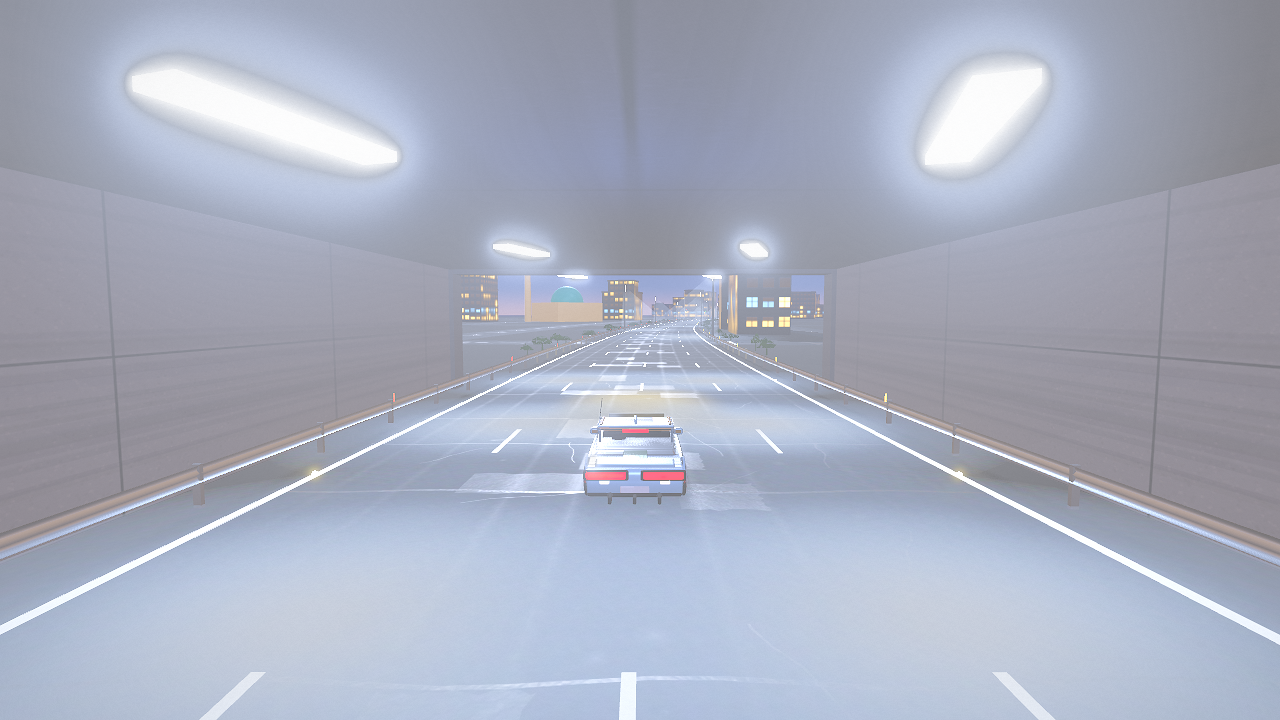
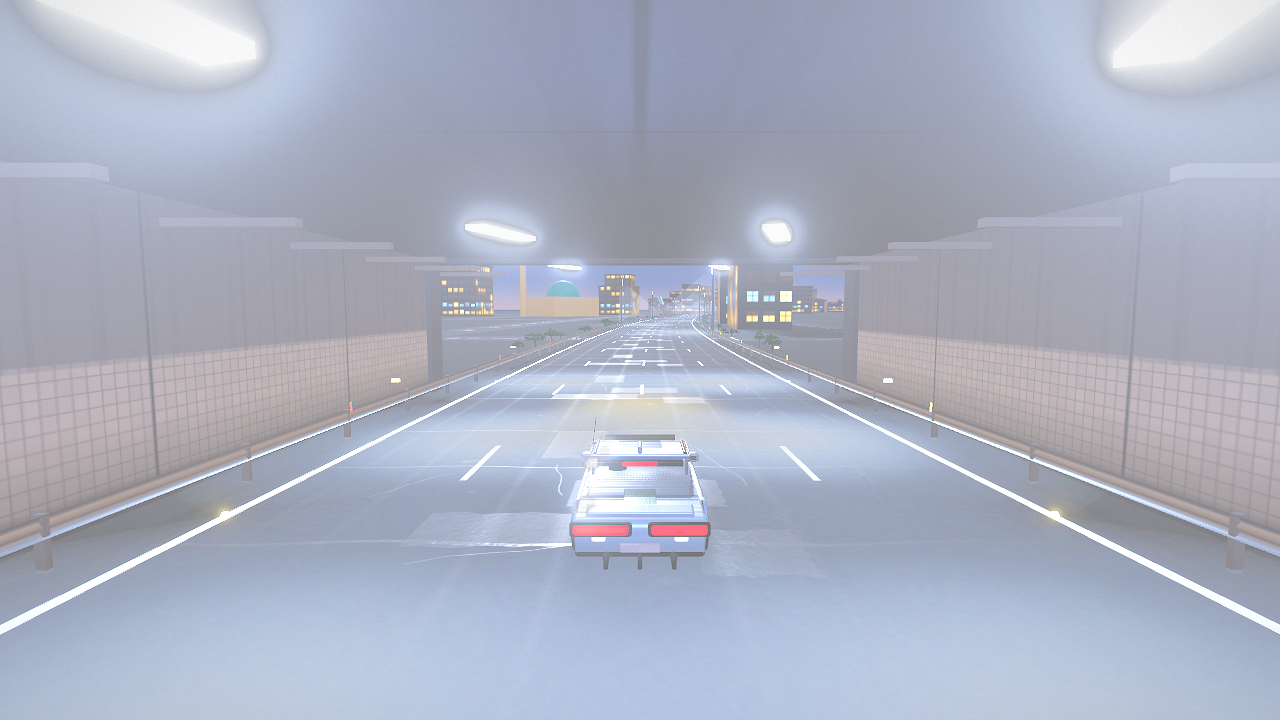
Give the underpass a plinth, a tiled dado and a service run
The tunnel's walls were the same flat grey from the road to the soffit —
five and a half metres of one colour with nothing on it to say which end
was the ground. It read as a corridor rather than as a road.

WHAT A ROAD TUNNEL ACTUALLY HAS, bottom to top

  A plinth, dark and wet, the bit that gets hit by spray and never
  dries. This is most of what was missing: without it the wall had no
  bottom.

  A tiled dado to about 2.5 m, in pale ceramic with its own grout.
  Tunnels are tiled to head height for a reason this game should care
  about — it is there to bounce headlights back onto the carriageway —
  so it is the lightest surface in here.

  Dirty concrete above that, sooted where the exhaust collects against
  the soffit, because nothing washes it.

  An expansion joint once per seven-metre bay. A tunnel is cast in bays,
  and at speed that seam is the thing telling you how fast you are going
  when everything else is a smooth grey wall.

The texture is authored SIDEWAYS, and it has to be: buildWall lays its
UVs out as u = height and v = distance, so on that canvas X is height and
Y is length, and every band above is a vertical stripe standing for a
horizontal course. That is why it is its own function rather than a few
more strokes on concreteTexture. The soffit keeps the plain cast
concrete — a ceiling has no courses on it.

AND TWO THINGS ON TOP OF IT

  The cable duct, at high level, the one horizontal line running unbroken
[…]

diff --git a/src/game/world.ts b/src/game/world.ts
@@ -805,6 +805,125 @@ function concreteTexture(): THREE.CanvasTexture {
   return tex;
 }
 
+/**
+ * The underpass wall — and it is authored SIDEWAYS on purpose.
+ *
+ * buildWall lays its UVs out as u = height (0 at the road, 1 at the
+ * soffit) and v = distance along the tunnel over 14 m. So on this canvas
+ * the X axis is HEIGHT and the Y axis is LENGTH, which is the opposite
+ * of how anybody draws a wall and the reason this is its own function
+ * rather than a few extra strokes on concreteTexture(): every band here
+ * is a vertical stripe standing for a horizontal course.
+ *
+ * What is drawn is what a road tunnel actually has, bottom to top:
+ *
+ *   a plinth, dark and wet — the bit that gets hit by spray and never
+ *   dries. This is most of why the old flat grey read as a corridor
+ *   rather than a road: there was nothing to say which end was the
+ *   ground.
+ *
+ *   a tiled dado to about 2.5 m, in a pale ceramic. Tunnels are tiled to
+ *   head height for a reason a night racing game should care about — it
+ *   is there to bounce headlights back onto the carriageway — so it is
+ *   the lightest thing in here and it carries its own grout.
+ *
+ *   bare concrete above that, dirtier as it climbs, because nothing
+ *   washes it.
+ *
+ * Plus an expansion joint once per tile: a real tunnel is cast in bays
+ * and the seam between them is the thing that tells you how fast you are
+ * going when everything else is a smooth grey wall.
+ */
+function tunnelWallTexture(): THREE.CanvasTexture {
+  const S = 256;
+  const c = document.createElement("canvas");
+  c.width = c.height = S;
+  const ctx = c.getContext("2d")!;
+  // X in pixels for a height in metres, against TUNNEL_BOX.height.
+  const atM = (m: number) => (m / TUNNEL_BOX.height) * S;
+  // Y in pixels for a distance in metres. The map is repeated twice over
+  // buildWall's 14 m of v, so one tile is seven metres of tunnel.
+  const TILE_M = 7;
+  const atL = (m: number) => (m / TILE_M) * S;
+
+  // Bare concrete everywhere first; the courses go on top.
+  ctx.fillStyle = "#787b81";
+  ctx.fillRect(0, 0, S, S);
+  for (let i = 0; i < 4200; i++) {
+    const g = 100 + rand() * 46;
+    ctx.fillStyle = `rgba(${g},${g + 2},${g + 6},${0.18 + rand() * 0.36})`;
+    ctx.fillRect(rand() * S, rand() * S, 1.5, 1.5);
+  }
+
+  // ---- the tiled dado, 0.35 m to 2.5 m ----
+  const dadoLo = atM(0.35), dadoHi = atM(2.5);
+  ctx.fillStyle = "#cfd3d0";
+  ctx.fillRect(dadoLo, 0, dadoHi - dadoLo, S);
+  // Ceramic is not one colour: vary it per tile so the courses read.
+  const TILE = 0.25; // metres, both ways
+  for (let m = 0.35; m < 2.5; m += TILE) {
+    for (let n = 0; n < TILE_M; n += TILE) {
+      const v = 198 + rand() * 26;
+      ctx.fillStyle = `rgba(${v},${v + 3},${v},0.55)`;
+      ctx.fillRect(atM(m), atL(n), atM(TILE) - 1, atL(TILE) - 1);
+    }
+  }
+  // Grout, both ways.
+  ctx.strokeStyle = "rgba(120,124,124,0.75)";
+  ctx.lineWidth = 1;
+  for (let m = 0.35; m <= 2.5 + 1e-6; m += TILE) {
+    ctx.beginPath(); ctx.moveTo(atM(m), 0); ctx.lineTo(atM(m), S); ctx.stroke();
+  }
+  for (let n = 0; n <= TILE_M + 1e-6; n += TILE) {
+    ctx.beginPath(); ctx.moveTo(dadoLo, atL(n)); ctx.lineTo(dadoHi, atL(n)); ctx.stroke();
+  }
+
+  // ---- the plinth, road level to 0.35 m ----
+  const plinth = ctx.createLinearGradient(0, 0, atM(0.55), 0);
+  plinth.addColorStop(0, "rgba(24,25,28,0.96)");
+  plinth.addColorStop(0.62, "rgba(38,40,44,0.85)");
+  plinth.addColorStop(1, "rgba(60,62,66,0)");
+  ctx.fillStyle = plinth;
+  ctx.fillRect(0, 0, atM(0.55), S);
+
+  // ---- grime: heavy at the bottom of the tile, thinning upward ----
+  const grime = ctx.createLinearGradient(atM(0.35), 0, atM(1.5), 0);
+  grime.addColorStop(0, "rgba(46,44,38,0.5)");
+  grime.addColorStop(1, "rgba(46,44,38,0)");
+  ctx.fillStyle = grime;
+  ctx.fillRect(atM(0.35), 0, atM(1.5) - atM(0.35), S);
+  // And soot high up, where the exhaust collects against the soffit.
+  const soot = ctx.createLinearGradient(atM(3.4), 0, S, 0);
+  soot.addColorStop(0, "rgba(30,30,32,0)");
+  soot.addColorStop(1, "rgba(30,30,32,0.22)");
+  ctx.fillStyle = soot;
+  ctx.fillRect(atM(3.4), 0, S - atM(3.4), S);
+
+  // Run-off streaks down the bare concrete — vertical on the wall, which
+  // is horizontal here.
+  for (let i = 0; i < 16; i++) {
+    const at = atL(rand() * TILE_M);
+    ctx.fillStyle = `rgba(38,40,42,${0.05 + rand() * 0.12})`;
+    ctx.fillRect(atM(2.5), at, S - atM(2.5), 1.5 + rand() * 5);
+  }
+
+  // ---- the expansion joint, once per bay ----
+  ctx.fillStyle = "rgba(22,23,26,0.85)";
+  ctx.fillRect(0, 0, S, 2.5);
+  ctx.fillStyle = "rgba(150,153,155,0.25)";
+  ctx.fillRect(0, 2.5, S, 1);
+
+  const tex = new THREE.CanvasTexture(c);
+  // Length repeats; height must NOT — the courses are absolute
+  // positions up the wall, and tiling them would put a second plinth in
+  // the ceiling.
+  tex.wrapS = THREE.ClampToEdgeWrapping;
+  tex.wrapT = THREE.RepeatWrapping;
+  tex.colorSpace = THREE.SRGBColorSpace;
+  tex.anisotropy = 8;
+  return tex;
+}
+
 function paverTexture(): THREE.CanvasTexture {
   const c = document.createElement("canvas");
   c.width = 128;
@@ -5277,9 +5396,9 @@ export function buildWorld(scene: THREE.Scene, track: Track): WorldHandle {
 
     const m = new THREE.Matrix4();
     const q = new THREE.Quaternion();
-    const up = new THREE.Vector3(0, 1, 0);
     const pos = new THREE.Vector3();
     const scl = new THREE.Vector3();
+    const up = new THREE.Vector3(0, 1, 0);
     const p2 = new THREE.Vector3();
     const tmp2 = new THREE.Vector3();
     const tint = new THREE.Color();
@@ -5331,11 +5450,26 @@ export function buildWorld(scene: THREE.Scene, track: Track): WorldHandle {
 
   // The underpass: concrete walls + ceiling, sodium strip lights inside
   {
+    // The soffit keeps the plain cast concrete — a ceiling has no
+    // courses on it, and the tiled wall would put a dado overhead.
     const concreteMap = concreteTexture();
     concreteMap.repeat.set(1, 2);
     const concrete = new THREE.MeshStandardMaterial({
       map: concreteMap,
       roughness: 0.95,
+      side: THREE.DoubleSide,
+    });
+    // The walls get their own face: plinth, tiled dado, dirty concrete
+    // above. See tunnelWallTexture — it is drawn sideways because
+    // buildWall's u is height, not length.
+    const wallMap = tunnelWallTexture();
+    wallMap.repeat.set(1, 2);
+    const wallMat = new THREE.MeshStandardMaterial({
+      map: wallMap,
+      // Less rough than the soffit: glazed tile is most of what the eye
+      // sees down here, and it is the surface that throws headlights
+      // back onto the road.
+      roughness: 0.72,
       side: THREE.DoubleSide,
     });
     // The box's dimensions live in track.ts beside the span they apply
@@ -5345,11 +5479,11 @@ export function buildWorld(scene: THREE.Scene, track: Track): WorldHandle {
     const { halfWidth: tw, height: th } = TUNNEL_BOX;
     const wallL = new THREE.Mesh(
       buildWall(track, -tw, 0, th, 6, TUNNEL_U.from, TUNNEL_U.to),
-      concrete
+      wallMat
     );
     const wallR = new THREE.Mesh(
       buildWall(track, tw, 0, th, 6, TUNNEL_U.from, TUNNEL_U.to),
-      concrete
+      wallMat
     );
     const ceiling = new THREE.Mesh(
       buildRibbon(track, -tw, tw, th, 6, TUNNEL_U.from, TUNNEL_U.to),
@@ -5424,6 +5558,80 @@ export function buildWorld(scene: THREE.Scene, track: Track): WorldHandle {
     tpools.instanceMatrix.needsUpdate = true;
     scene.add(strips, tpools);
     scene.add(coronaPoints(stripPositions, 0xdbe7ff, 2.6));
+
+    /* THE SERVICE RUN, AND THE STUDS.
+     *
+     * Two things a tunnel has that a corridor does not, and between them
+     * they are what stops a smooth grey wall from being a smooth grey
+     * wall at 200 km/h.
+     *
+     * The tray is the cable duct every tunnel carries at high level —
+     * power for the lights overhead, and the one horizontal line in here
+     * that runs unbroken from portal to portal. It is what gives the
+     * wall a vanishing point of its own instead of leaving that job to
+     * the ceiling strips.
+     *
+     * The studs are the reason this is worth doing at all. A tiled wall
+     * is lit by whatever the ceiling gives it; a reflective delineator
+     * is lit by YOUR headlights, so it arrives out of the dark, brightens
+     * as you close on it and goes past — and a row of them at a fixed
+     * spacing is the strongest speed cue in the whole tunnel. Every 18 m,
+     * because that is close enough to read as a stream at speed and far
+     * enough not to become a solid line.
+     */
+    const runM = (TUNNEL_U.to - TUNNEL_U.from) * L;
+    const trayN = Math.floor(runM / 4);
+    // Galvanised, not black. At 0x2f3237 against a pale tiled wall this
+    // was the highest-contrast thing in the tunnel — a row of dark slabs
+    // that read as structural beams somebody had left in the way, and
+    // the first thing the eye went to in every shot. A cable duct is
+    // dull grey steel and it is supposed to be furniture.
+    const trayMat = new THREE.MeshStandardMaterial({ color: 0x8d9198, roughness: 0.62, metalness: 0.5 });
+    // Slightly longer than the spacing so consecutive segments overlap
+    // through the corners: a tray with gaps in it on every bend is a
+    // dashed line, and a dashed line is not a duct.
+    const tray = new THREE.InstancedMesh(new THREE.BoxGeometry(0.24, 0.16, 4.6), trayMat, trayN * 2);
+    // Amber one side, white the other, which is the convention and also
+    // the only way to know which wall you are looking at when the tunnel
+    // is symmetrical and you are sideways.
+    const studGeo = new THREE.BoxGeometry(0.1, 0.12, 0.3);
+    const studMats = [
+      new THREE.MeshStandardMaterial({ color: 0xfff3d8, emissive: 0xffcf82, emissiveIntensity: 0.85, roughness: 0.35, fog: false }),
+      new THREE.MeshStandardMaterial({ color: 0xf2f6ff, emissive: 0xdbe7ff, emissiveIntensity: 0.85, roughness: 0.35, fog: false }),
+    ];
+    const studN = Math.floor(runM / 18);
+    const studs = [
+      new THREE.InstancedMesh(studGeo, studMats[0], studN),
+      new THREE.InstancedMesh(studGeo, studMats[1], studN),
+    ];
+    const q = new THREE.Quaternion();
+    const one = new THREE.Vector3(1, 1, 1);
+    // Both of these sit ON the wall, so they have to be turned to follow
+    // it. The strips above get away with a bare translation because they
+    // are square in plan; a 4.5 m duct laid across the tunnel would be a
+    // girder.
+    const place = (sAt: number, lat: number, y: number, mesh: THREE.InstancedMesh, at: number) => {
+      track.pose(sAt, lat, p, tmp);
+      q.setFromUnitVectors(new THREE.Vector3(0, 0, 1), tmp.clone().setY(0).normalize());
+      m.compose(new THREE.Vector3(p.x, y, p.z), q, one);
+      mesh.setMatrixAt(at, m);
+    };
+    for (let i = 0; i < trayN; i++) {
+      const sAt = (TUNNEL_U.from + 0.001) * L + i * 4;
+      // 4.95 m, up out of the eye line and tight under the soffit, which
+      // is where a duct is actually clipped.
+      place(sAt, -(tw - 0.14), 4.95, tray, i * 2);
+      place(sAt, tw - 0.14, 4.95, tray, i * 2 + 1);
+    }
+    tray.instanceMatrix.needsUpdate = true;
+    for (let i = 0; i < studN; i++) {
+      const sAt = (TUNNEL_U.from + 0.004) * L + i * 18;
+      // 0.95 m: headlight height, which is the whole point of a stud.
+      place(sAt, -(tw - 0.12), 0.95, studs[0], i);
+      place(sAt, tw - 0.12, 0.95, studs[1], i);
+    }
+    for (const st of studs) st.instanceMatrix.needsUpdate = true;
+    scene.add(tray, studs[0], studs[1]);
   }
 
   // Illuminated billboards — the TXR night-expressway signature,
